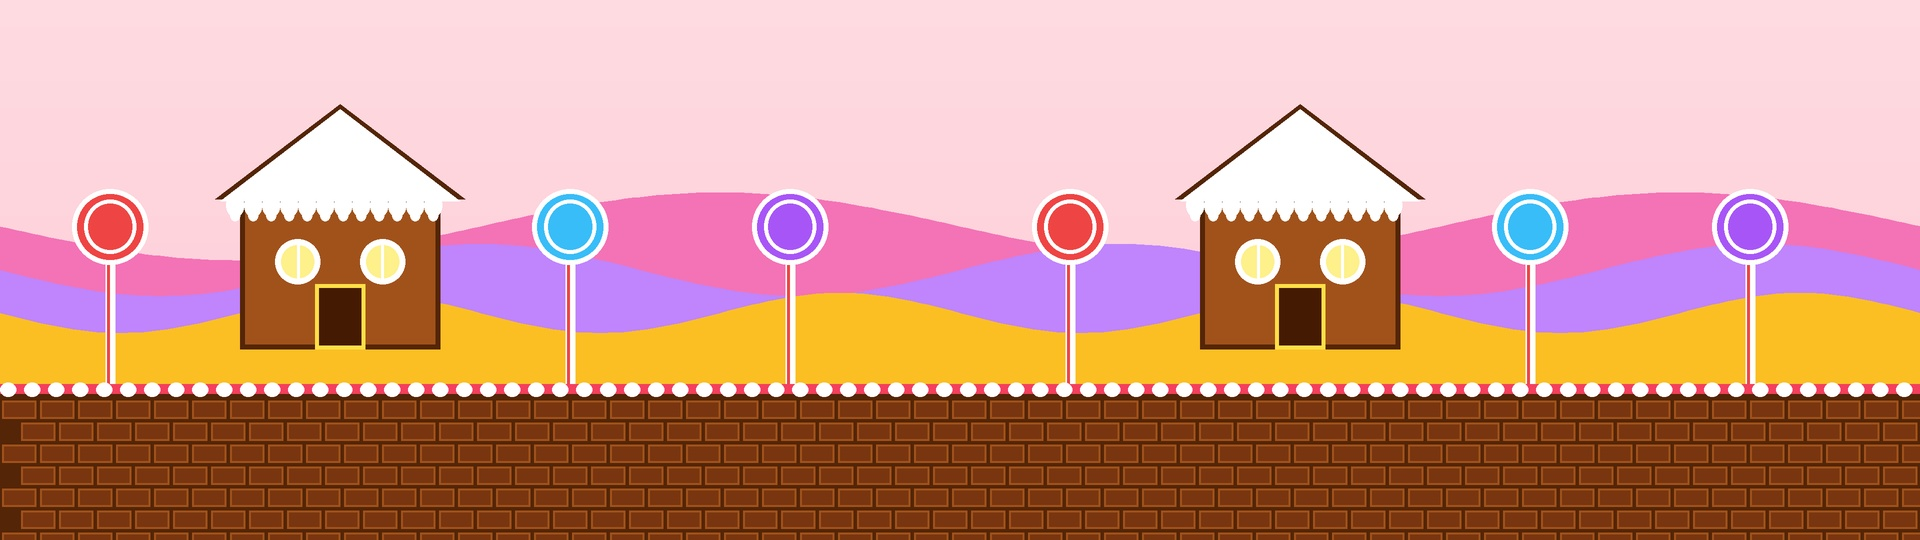
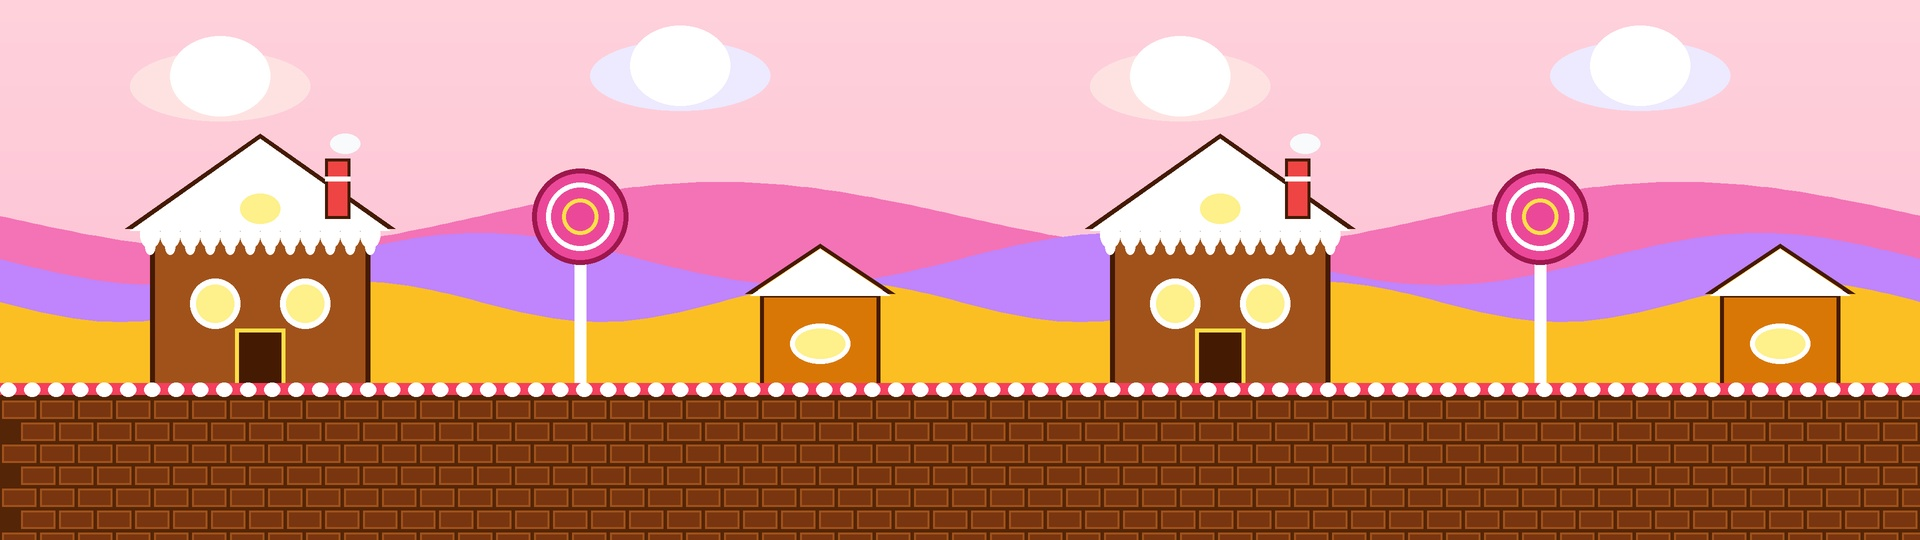
feat: replace repetitive background pattern with rich organic Cookie Run panoramic illustrations (giant ancient tree, glowing moon, varied architecture) and remove ground clipping

diff --git a/js/app.js b/js/app.js
@@ -46,10 +46,10 @@ class HancomTajaApp {
     ];
     this.cookieFrame = 0;
     this.runnerWorlds = [
-      { src: 'assets/runner/bg-forest.jpg', name: '1. 숲속', accent: '#22C55E' },
-      { src: 'assets/runner/bg-candyhouse.jpg', name: '2. 과자집', accent: '#F43F5E' },
-      { src: 'assets/runner/bg-witchkitchen.jpg', name: '3. 마녀의 주방', accent: '#A855F7' },
-      { src: 'assets/runner/bg-escape.jpg', name: '4. 과자집 탈출', accent: '#FDE047' }
+      { src: 'assets/runner/bg-forest.jpg?v=2', name: '1. 숲속', accent: '#22C55E' },
+      { src: 'assets/runner/bg-candyhouse.jpg?v=2', name: '2. 과자집', accent: '#F43F5E' },
+      { src: 'assets/runner/bg-witchkitchen.jpg?v=2', name: '3. 마녀의 주방', accent: '#A855F7' },
+      { src: 'assets/runner/bg-escape.jpg?v=2', name: '4. 과자집 탈출', accent: '#FDE047' }
     ];
     this.runnerStageIndex = 0;
     this.runnerWorldChanging = false;

diff --git a/styles.css b/styles.css
@@ -889,8 +889,8 @@ body {
 
 .cr-bg {
   position: absolute;
-  inset: 0 0 52px 0;
-  background-image: url("assets/runner/bg-forest.jpg");
+  inset: 0;
+  background-image: url("assets/runner/bg-forest.jpg?v=2");
   background-repeat: repeat-x;
   background-size: auto 100%;
   background-position: 0 0;
@@ -907,14 +907,7 @@ body {
 }
 
 .cr-ground {
-  position: absolute;
-  left: 0;
-  right: 0;
-  bottom: 0;
-  height: 56px;
-  background: #78350F;
-  border-top: 5px solid #F43F5E;
-  z-index: 4;
+  display: none;
 }
 
 @keyframes crScrollBg {
